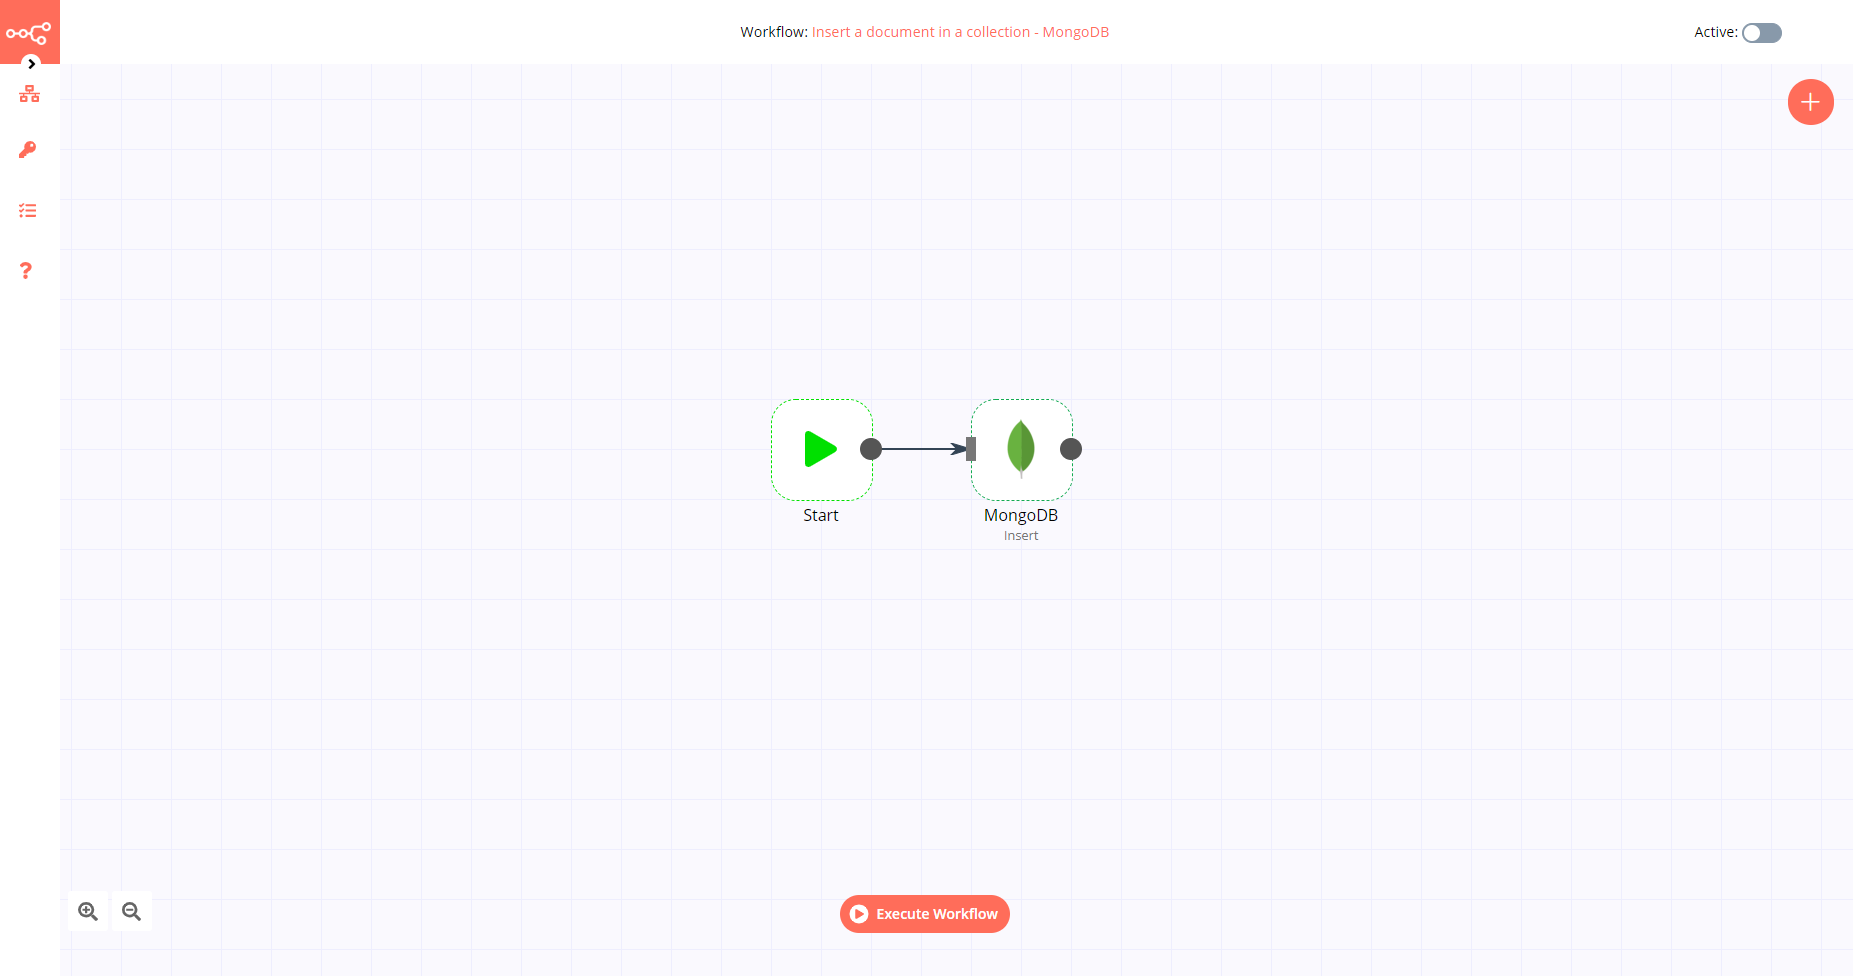
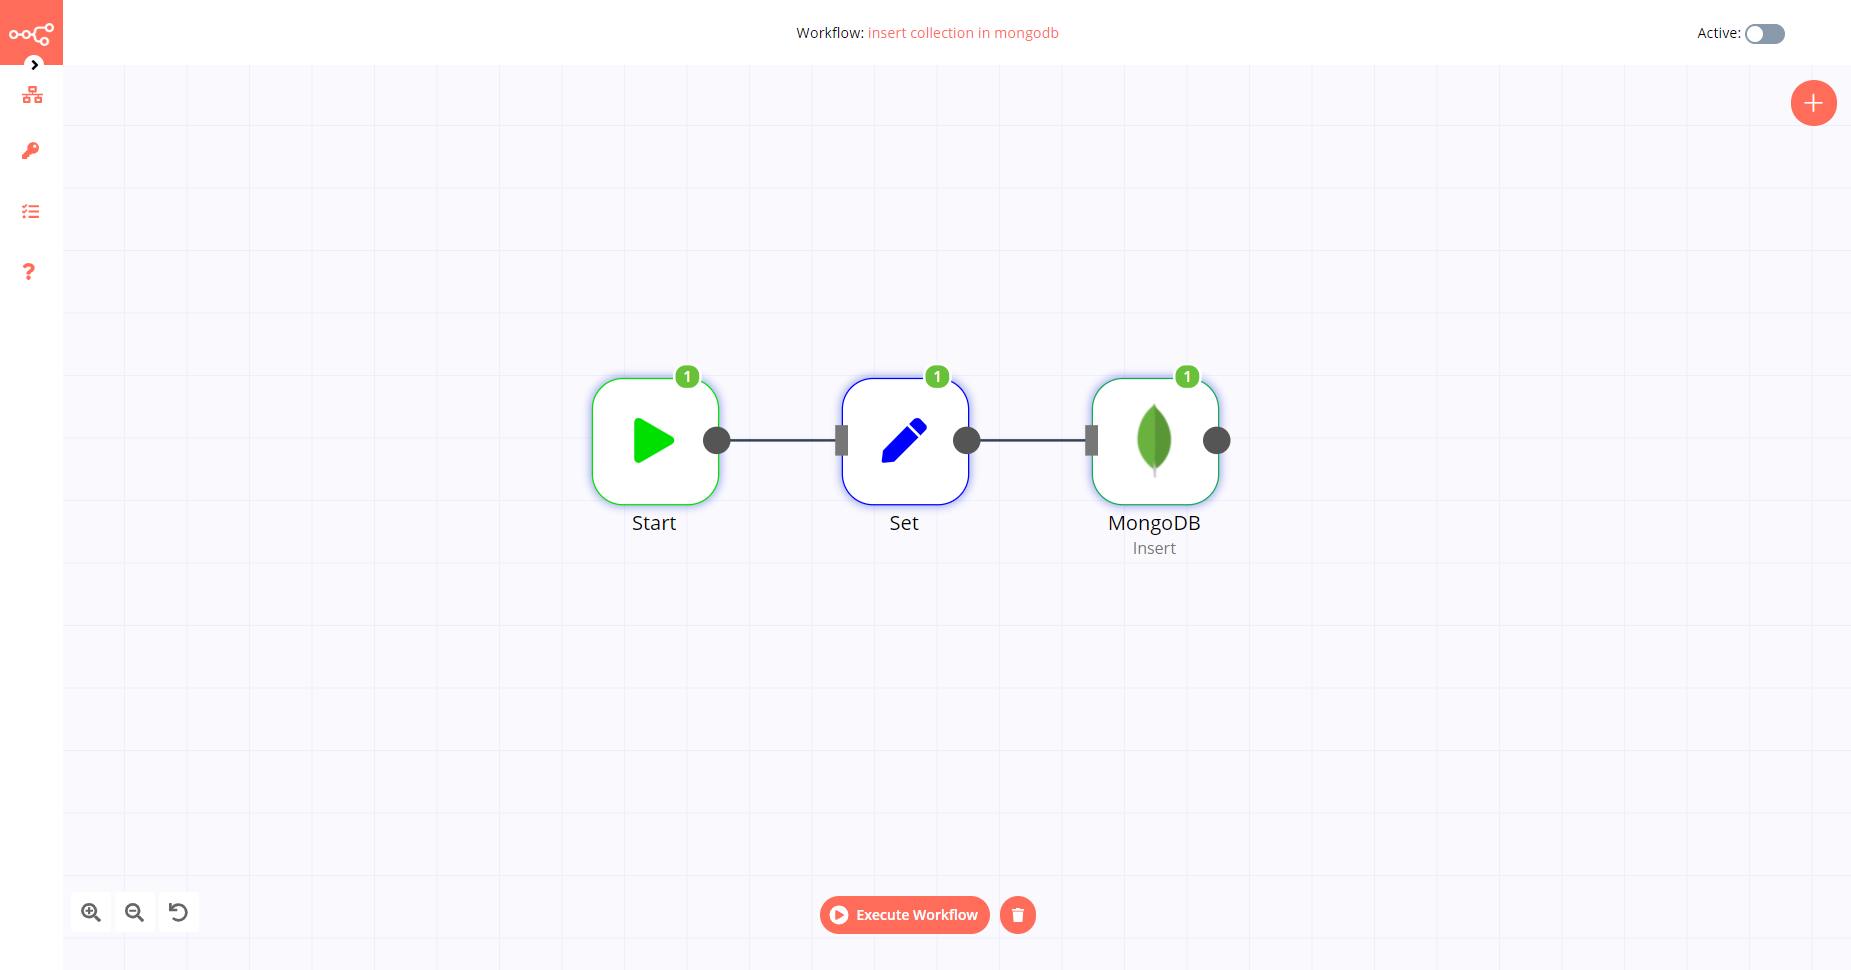
:bug: Updated MongoDB node

diff --git a/docs/nodes/nodes-library/nodes/MongoDB/README.md b/docs/nodes/nodes-library/nodes/MongoDB/README.md
@@ -20,8 +20,9 @@ You can find authentication information for this node [here](../../../credential
 
 ## Example Usage
 
-This workflow allows you to insert a document into a MongoDB collection. You can also find the [workflow](https://n8n.io/workflows/503) on the website. This example usage workflow would use the following two nodes.
+This workflow allows you to insert a document into a MongoDB collection. You can also find the [workflow](https://n8n.io/workflows/503) on the website. This example usage workflow would use the following three nodes.
 - [Start](../../core-nodes/Start/README.md)
+- Set<!-- (../../core-nodes/Set/README.md) -->
 - [MongoDB]()
 
 The final workflow should look like the following image.
@@ -32,10 +33,16 @@ The final workflow should look like the following image.
 
 The start node exists by default when you create a new workflow.
 
-### 2. MongoDB node
+### 2. Set node
+
+1. Click on the *Add Value* button and select 'String' from the dropdown list.
+2. Enter `my_key`in the *Name* field.
+3. Enter `my_value` in the *Value* field.
+
+### 3. MongoDB node
 
 1. First of all, you'll have to enter credentials for the MongoDB node. You can find out how to do that [here](../../../credentials/MongoDB/README.md).
 2. Select 'Insert' from the *Operation* dropdown list.
 3. Enter the name of your MongoDB collection in the *Collection* field.
-4. Enter the values you want to insert into your collection in the *Fields* field.
+4. Enter `my_key` in the *Fields* field.
 5. Click on *Execute Node* to run the workflow.

diff --git a/docs/nodes/credentials/MongoDB/README.md b/docs/nodes/credentials/MongoDB/README.md
@@ -9,6 +9,4 @@ Create an user account with the appropriate permissions on a MongoDB server.
 ## Using Access Token
 
 1. Retrieve your MongoDB credentials and connection parameters.
-2. Use the credentials and connection parameters with your Postgres node credentials in n8n.
-
-![Getting MongoDB credentials](./using-database-connection.gif)
+2. Use the credentials and connection parameters with your MongoDB node credentials in n8n.
